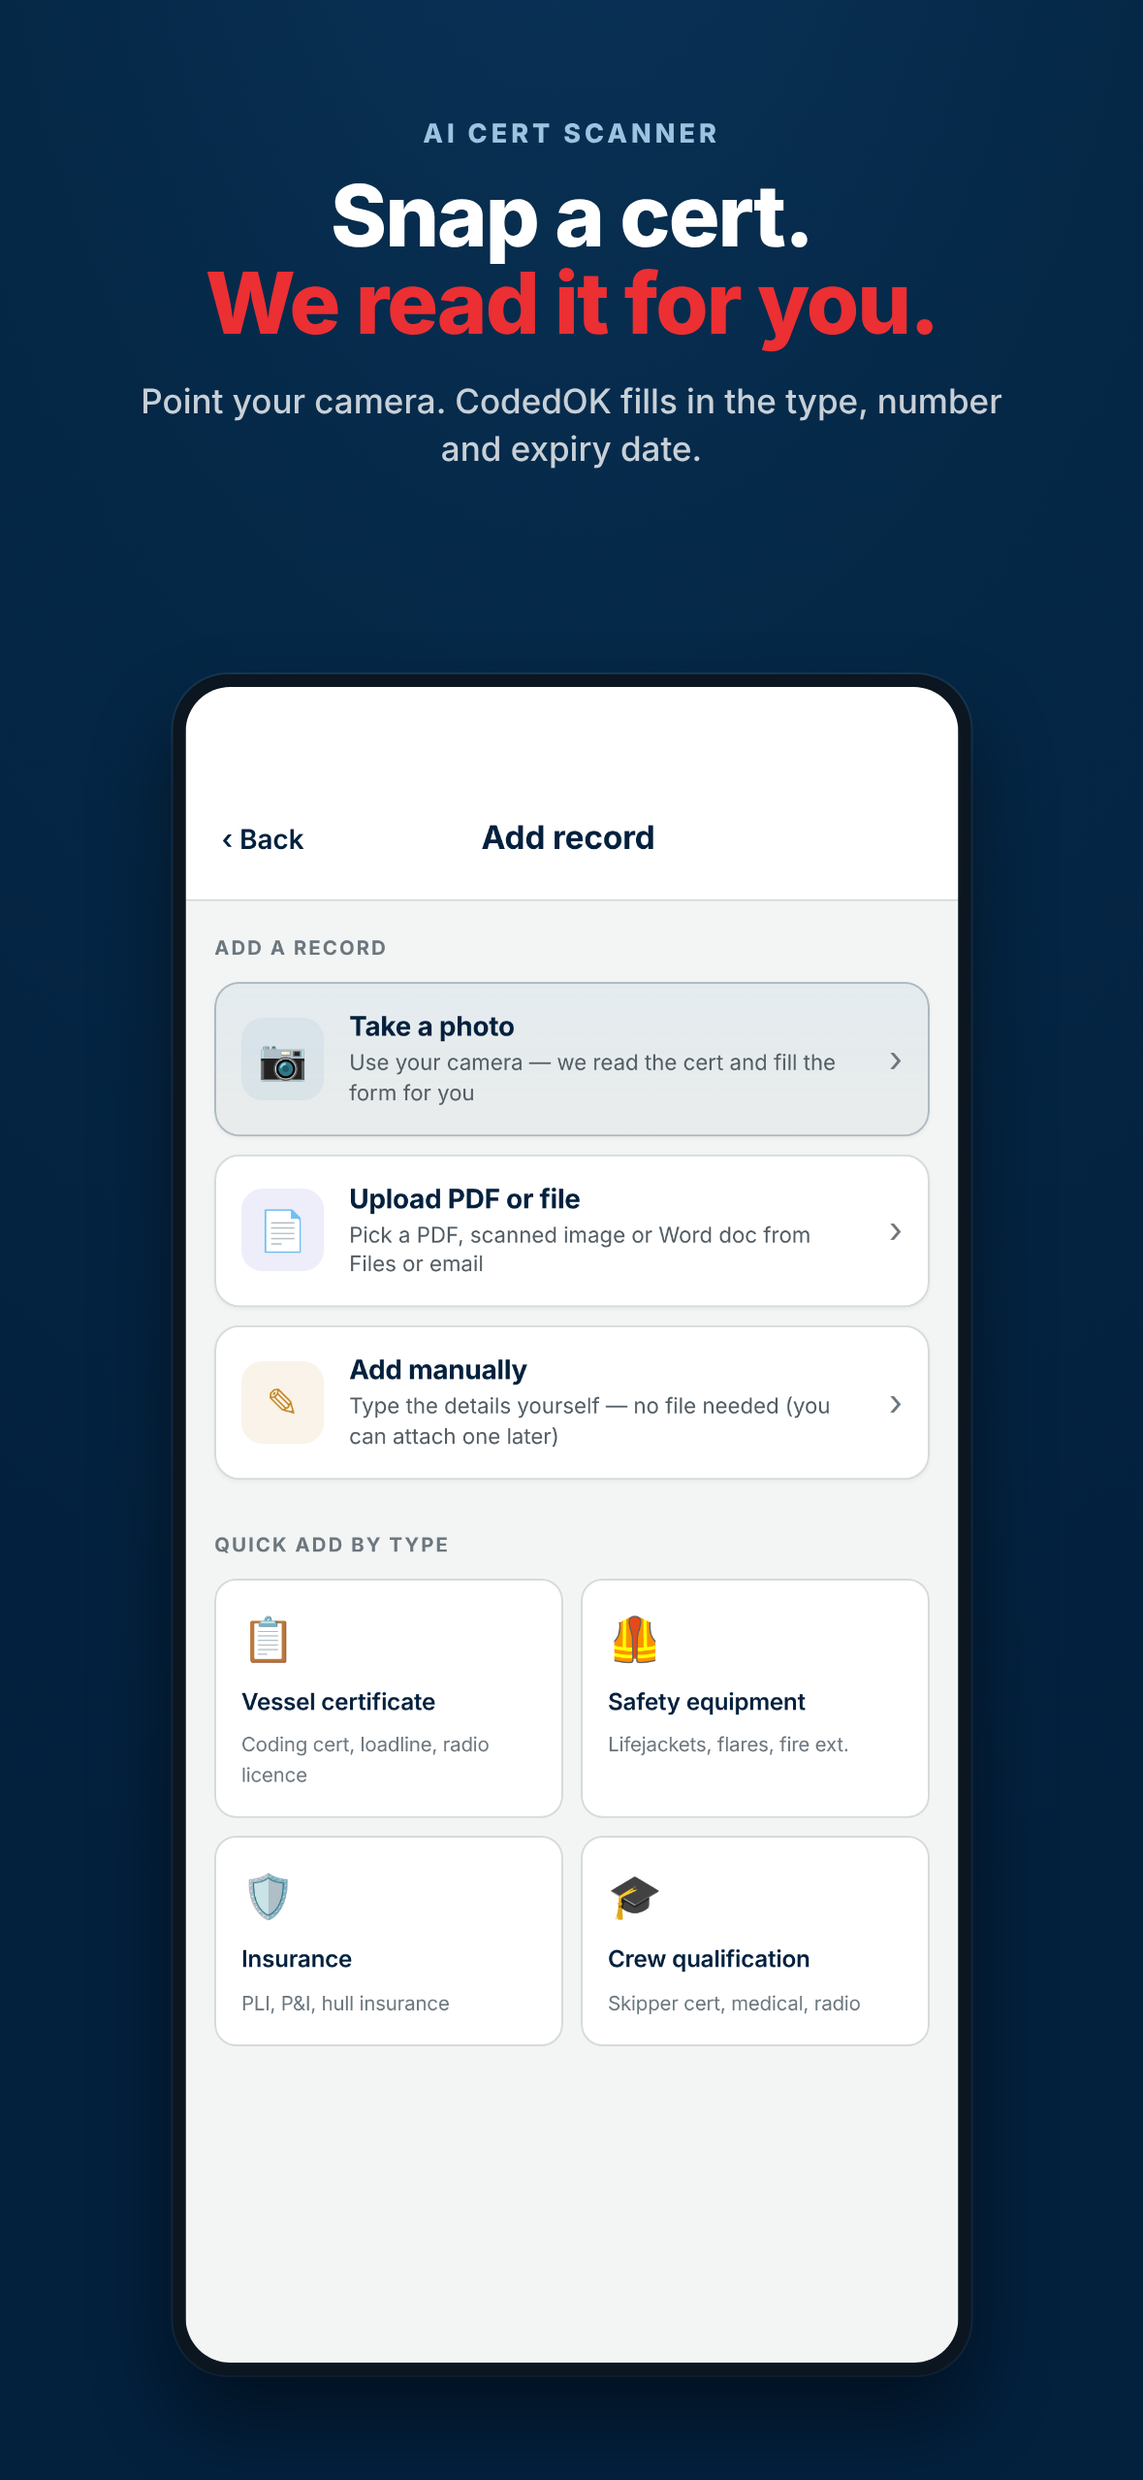
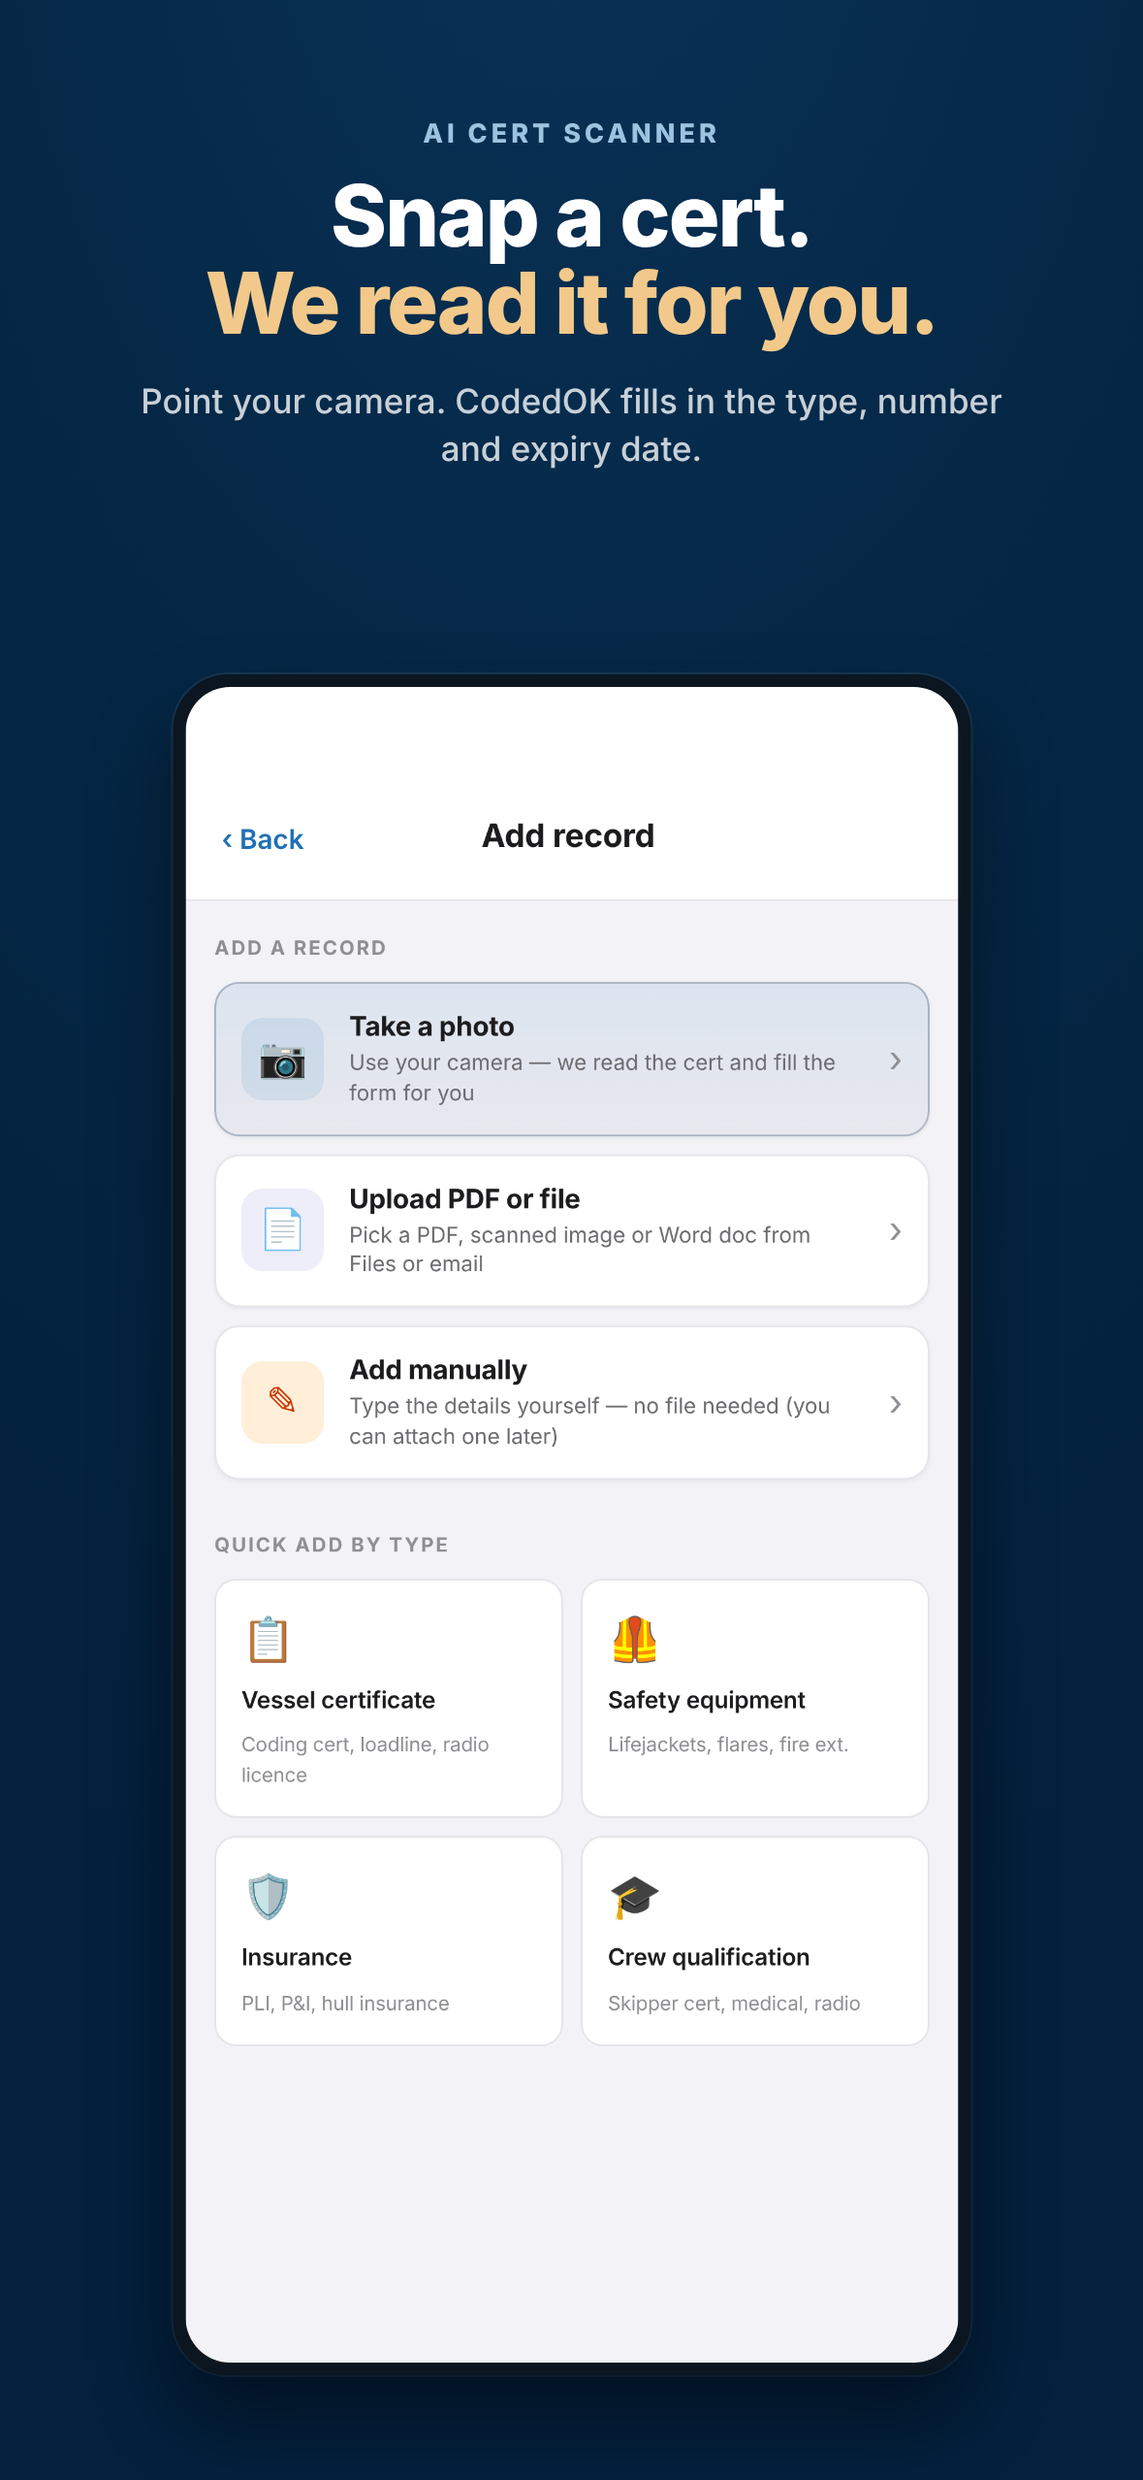
Apple-style redesign; drop red as a brand colour
Palette (blue = trust, one warm accent, Apple HIG semantics):
- Navy #03203D brand; Harbour Blue #1F6FB5 single tint for everything
  tappable; Stone Blue #639CC5 support; Brass Sand #F2C98A as the one
  warm accent on marketing only.
- Red is no longer a brand colour anywhere. In-app it is Apple system
  red, used only for "overdue"; status uses system green/orange/red.

Apple design layer (end of style.css): system font (SF), grouped
#F2F2F7 background, flat borderless white cards, 34pt large titles,
12px tinted/filled buttons, tint-coloured active tab. Home status card
is now a calm white summary instead of a dark glowing slab.

App Store safety: Account's hardcoded Pro/Team/£49 add-on offers are
tagged .paid-only and hidden in the native build (verified: web shows
them, native shows a single "manage at codedok.com" note). Removed
leftover emoji from Overdue headings.

New icon (white badge, blue tick - no red), and regenerated all Meta
ads, App Store screenshots and the share card. Press-kit colours and
docs/BRAND.md updated. All-screens walk clean. SW v195.

Claude-Session: https://claude.ai/code/session_013T4bCp6etX6yKh2SAUTcQj

diff --git a/app/style.css b/app/style.css
@@ -317,7 +317,7 @@ html,body{font-family:var(--fn);background:var(--ink);color:var(--text);min-heig
   #dnav .dni.on { background: rgba(34,211,238,.16); color: #fff; }
   #dnav .dni.on::before {
     content: ''; position: absolute; left: 0; top: 10px; bottom: 10px;
-    width: 3px; border-radius: 0 3px 3px 0; background: var(--seal, #EB2F33);
+    width: 3px; border-radius: 0 3px 3px 0; background: var(--seal, #1F6FB5);
   }
   #dnav .dni-ic { font-size: 21px; width: 24px; text-align: center; flex-shrink: 0; }
   #dnav .dni-lb { font-size: 15px; font-weight: 600; }
@@ -3693,10 +3693,10 @@ body.shell-fullbleed #s-land > .sb { display: none !important; }
   display: block;
 }
 #s-land .ios-italic.ios-italic-light {
-  /* Solid scarlet: the brand's one accent. (A clipped gradient here let
+  /* Solid brass-sand: the brand's one warm accent. (A clipped gradient here let
      the parent's dark text-shadow bleed through and dull it to maroon.) */
-  color: #EB2F33;
-  -webkit-text-fill-color: #EB2F33;
+  color: #F2C98A;
+  -webkit-text-fill-color: #F2C98A;
   text-shadow: none;
 }
 #s-land .ios-sub.ios-sub-light { color: rgba(255,255,255,.88); max-width: 560px; margin-left: 0; margin-right: 0; text-shadow: 0 2px 12px rgba(0,0,0,.55); }
@@ -4446,7 +4446,7 @@ body.shell-fullbleed #s-land > .sb { display: none !important; }
   color: #fff;
 }
 #s-land .ios-final .ios-italic {
-  background: linear-gradient(120deg, #EB2F33 0%, #EB2F33 100%);
+  background: linear-gradient(120deg, #F2C98A 0%, #F2C98A 100%);
   -webkit-background-clip: text;
           background-clip: text;
   -webkit-text-fill-color: transparent;
@@ -5566,3 +5566,63 @@ html.is-native #qr-fab { display: none !important; }
 .bni-ic svg { width: 24px; height: 24px; display: block; }
 .bni-ic { filter: none; }
 .ios-head-btn svg { width: 21px; height: 21px; display: block; }
+
+/* ══════════════════════════════════════════════════════════════════
+   APPLE DESIGN LAYER (HIG-aligned) — the in-app look.
+   • One tint (Harbour Blue) for everything tappable.
+   • Status uses Apple's system green / orange / red; red = overdue only.
+   • System font (SF on Apple devices), grouped grey background, white
+     cards with no borders or heavy shadows, 12px controls.
+   The marketing landing (#s-land) keeps its own scoped theme.
+   ══════════════════════════════════════════════════════════════════ */
+:root {
+  --tint: #1F6FB5;
+  --sea:  #1F6FB5; --seal: #1F6FB5; --seap: rgba(31,111,181,.10);
+  --ink:  #03203D; --ink2: #0A2D4F; --ink3: #123A60;
+  --green:#248A3D; --grnp: rgba(52,199,89,.14);
+  --amber:#C93400; --ampp: rgba(255,149,0,.15);
+  --red:  #D70015; --redp: rgba(255,59,48,.12);
+  --page: #F2F2F7; --card: #FFFFFF; --card-2: #FFFFFF;
+  --bdr:  #E5E5EA; --bdr-strong: #C6C6C8;
+  --text: #1C1C1E; --text-2: #3A3A3C; --mid: #6C6C70; --lt: #8E8E93; --lt-2: #AEAEB2;
+  --fn:         -apple-system, BlinkMacSystemFont, 'SF Pro Text', 'Helvetica Neue', 'Inter', sans-serif;
+  --fn-display: -apple-system, BlinkMacSystemFont, 'SF Pro Display', 'Helvetica Neue', 'Inter', sans-serif;
+}
+
+/* System font throughout the app (inline monospace etc. still wins). */
+.shell:not(#s-land), .shell:not(#s-land) * { font-family: var(--fn); }
+.shell:not(#s-land) .ios-largetitle { font-family: var(--fn-display); font-weight: 700; font-size: 34px; letter-spacing: .2px; }
+
+/* Grouped background, flat white cards. */
+.shell:not(#s-land) .card { box-shadow: none; border-color: transparent; border-radius: 14px; }
+.shell:not(#s-land) .ios-group { box-shadow: none; }
+
+/* Home status: a calm white summary card, not a dark glowing slab. */
+.hero.hero-home {
+  background: var(--card) !important; background-image: none !important;
+  box-shadow: none !important; border-radius: 16px; padding: 18px;
+}
+.hero-home::before, .hero-home .hero-stars { display: none !important; }
+.ss-headline { font-family: var(--fn-display); color: var(--text); font-size: 20px; font-weight: 700; letter-spacing: -.2px; }
+.ss-sub { color: var(--mid); }
+.ss-badge { width: 54px; height: 54px; font-size: 26px; box-shadow: none; }
+.ss-badge.ss-good { background: rgba(52,199,89,.14);  color: #248A3D; }
+.ss-badge.ss-warn { background: rgba(255,149,0,.15);  color: #C93400; }
+.ss-badge.ss-bad  { background: rgba(255,59,48,.12);  color: #D70015; }
+.ss-actions { margin-top: 16px; gap: 10px; }
+.ss-btn { min-height: 50px; border-radius: 12px; font-size: 16px; font-weight: 600; }
+.ss-btn-primary { background: var(--tint); color: #fff; box-shadow: none; }
+.ss-btn-ghost   { background: rgba(31,111,181,.10); color: var(--tint); box-shadow: none; }
+
+/* Buttons: Apple filled / tinted styles, 12px corners. */
+.shell:not(#s-land) .btn { border-radius: 12px; font-weight: 600; }
+.shell:not(#s-land) .btn-sea { background: var(--tint); color: #fff; box-shadow: none; }
+
+/* Tab bar: tint for the active tab, system grey otherwise. */
+.bni { color: #8E8E93; }
+.bni.on { color: var(--tint); }
+
+/* Native (App Store) build: no paid offers in-app; web keeps them. */
+.native-only { display: none; }
+html.is-native .native-only { display: block; }
+html.is-native .paid-only { display: none !important; }

diff --git a/app/index.html b/app/index.html
@@ -1596,7 +1596,7 @@
 
     <div id="cr-urgent" class="tc on">
       <!-- Overdue section -->
-      <div class="slbl" style="color:var(--red)">🚨 Overdue — act now</div>
+      <div class="slbl" style="color:var(--red)">Overdue — act now</div>
       <div class="card mx">
         <div class="row"><div class="row-ic rd">🧨</div><div class="row-body"><div class="row-name">Cat C Pyrotechnics</div><div class="row-sub">Tsunami IV · Expired 10 Apr</div></div><span class="chip chip-rd">-5 days</span><span class="chev">›</span></div>
         <div class="row"><div class="row-ic rd">🛟</div><div class="row-body"><div class="row-name">Life raft service</div><div class="row-sub">Tsunami IV · Service overdue</div></div><span class="chip chip-rd">Overdue</span><span class="chev">›</span></div>
@@ -2246,8 +2246,14 @@
       </div>
     </div>
 
+    <!-- Native build sells nothing in-app (App Store 3.1.1): paid tiers
+         below carry .paid-only and are hidden when html.is-native. -->
+    <div class="card mx native-only" style="margin-bottom:10px;padding:16px 18px;font-size:14px;color:var(--mid);line-height:1.5">
+      Need more vessels or a team? Manage your plan any time at <strong style="color:var(--text)">codedok.com</strong>.
+    </div>
+
     <!-- Pro — Featured -->
-    <div class="card mx" style="margin-bottom:10px;border-color:var(--sea);border-width:2px">
+    <div class="card mx paid-only" style="margin-bottom:10px;border-color:var(--sea);border-width:2px">
       <div style="background:var(--sea);padding:8px 18px;display:flex;align-items:center;justify-content:space-between">
         <span style="font-size:12px;font-weight:700;color:white;text-transform:uppercase;letter-spacing:.06em">Most popular</span>
         <span style="font-size:11px;color:rgba(255,255,255,.7)">For charter operations</span>
@@ -2269,7 +2275,7 @@
     </div>
 
     <!-- Team -->
-    <div class="card mx" style="margin-bottom:10px">
+    <div class="card mx paid-only" style="margin-bottom:10px">
       <div style="padding:18px">
         <div style="display:flex;align-items:flex-start;justify-content:space-between;margin-bottom:12px">
           <div><div style="font-size:16px;font-weight:700;color:var(--text)">Team</div><div style="font-size:13px;color:var(--lt)">Charter fleets, multiple skippers</div></div>
@@ -2287,7 +2293,7 @@
     </div>
 
     <!-- AI Add-on -->
-    <div style="margin:0 16px 16px">
+    <div class="paid-only" style="margin:0 16px 16px">
       <div style="background:var(--ink2);border-radius:14px;padding:18px">
         <div style="font-size:12px;font-weight:700;color:var(--seal);text-transform:uppercase;letter-spacing:.07em;margin-bottom:6px">🤖 AI gap analysis</div>
         <div style="font-size:16px;font-weight:700;color:white;margin-bottom:6px">Full compliance health check</div>

diff --git a/app/founding.html b/app/founding.html
@@ -22,7 +22,7 @@
 <link rel="preload" href="/fonts/PlusJakartaSans-latin.woff2" as="font" type="font/woff2" crossorigin>
 <style>
   @font-face{font-family:'Jakarta';src:url('/fonts/PlusJakartaSans-latin.woff2') format('woff2');font-weight:200 800;font-display:swap}
-  :root{--sea:#03203D;--sea2:#0A3358;--deep:#03203D;--mint:#9CC3E0;--sand:#EB2F33;--cyan:#639CC5;
+  :root{--sea:#03203D;--sea2:#0A3358;--deep:#03203D;--mint:#9CC3E0;--sand:#F2C98A;--cyan:#639CC5;
         --text:#15232b;--mid:#5a6b73;--lt:#8a97a0;--bdr:#e5eaea;--page:#f4f6f6;--card:#fff;--red:#c0392b}
   *{margin:0;padding:0;box-sizing:border-box}
   html{scroll-behavior:smooth;-webkit-text-size-adjust:100%}
@@ -49,7 +49,7 @@
 
   form.join{margin-top:24px;display:flex;gap:8px;max-width:520px;background:#fff;padding:6px;border-radius:16px;box-shadow:0 20px 50px rgba(0,0,0,.25)}
   form.join input[type=email]{flex:1;min-width:0;border:0;outline:0;font:inherit;font-size:16px;padding:12px 12px;color:var(--text);background:transparent}
-  form.join button{border:0;cursor:pointer;font:inherit;font-weight:800;font-size:15px;color:#fff;background:#EB2F33;padding:0 20px;border-radius:12px;white-space:nowrap}
+  form.join button{border:0;cursor:pointer;font:inherit;font-weight:800;font-size:15px;color:#03203D;background:#F2C98A;padding:0 20px;border-radius:12px;white-space:nowrap}
   form.join button:disabled{opacity:.6;cursor:wait}
   .fine{margin-top:12px;font-size:12.5px;color:rgba(255,255,255,.65);max-width:520px}
   .fine label{display:flex;gap:8px;align-items:flex-start;cursor:pointer}
@@ -126,7 +126,7 @@
 
   /* Sticky mobile CTA (appears once the hero form scrolls away) */
   .sticky{position:fixed;left:12px;right:12px;bottom:max(12px,env(safe-area-inset-bottom));z-index:40;display:none}
-  .sticky a{display:block;text-align:center;background:#EB2F33;color:#fff;font-weight:800;padding:15px;border-radius:14px;text-decoration:none;box-shadow:0 12px 30px rgba(7,43,54,.35)}
+  .sticky a{display:block;text-align:center;background:#F2C98A;color:#03203D;font-weight:800;padding:15px;border-radius:14px;text-decoration:none;box-shadow:0 12px 30px rgba(7,43,54,.35)}
 
   /* Cookie consent */
   .consent{position:fixed;left:12px;right:12px;bottom:max(12px,env(safe-area-inset-bottom));z-index:60;max-width:560px;margin:0 auto;background:#fff;border:1px solid var(--bdr);border-radius:16px;padding:16px;box-shadow:0 18px 48px rgba(7,43,54,.25);font-size:13.5px;color:var(--mid)}

diff --git a/app/press/index.html b/app/press/index.html
@@ -120,15 +120,15 @@
   <section class="cdk-press-section">
     <h2>Brand colours</h2>
     <div class="cdk-card">
-      <pre>Primary cyan       #EB2F33
-Light cyan accent  #67E8F9
-Naval blue         #3B82F6
-Page (abyss)       #0A0F1A
-Card (surface)     #131826
-Border (steel)     rgba(255,255,255,.10)
-OK / valid         #10B981
-Warn / due-soon    #F59E0B
-Critical / overdue #EF4444</pre>
+      <pre>Navy (brand)        #03203D
+Harbour Blue (tint)  #1F6FB5
+Stone Blue (support) #639CC5
+Brass sand (accent)  #F2C98A
+Page                 #F2F2F7
+Card                 #FFFFFF
+OK / valid           #248A3D
+Warn / due soon      #C93400
+Overdue (only)       #D70015</pre>
     </div>
   </section>
 

diff --git a/app/app.js b/app/app.js
@@ -2247,7 +2247,7 @@
         html += emptyState('✅', 'All caught up', 'No overdue or imminent expiries across the fleet.');
       }
       if (overdueCount > 0) {
-        html += `<div class="h-section" style="color:var(--red)">🚨 Overdue · ${overdueCount}</div>`;
+        html += `<div class="h-section" style="color:var(--red)">Overdue · ${overdueCount}</div>`;
         html += `<div style="padding:0 16px">`;
         overdueCerts.forEach((c) => { html += ticketHtml(c, 'cert'); });
         overdueEquip.forEach((e) => { html += ticketHtml(e, 'equipment'); });

diff --git a/app/sw.js b/app/sw.js
@@ -4,7 +4,7 @@
 //     get the latest when online, fall back to cache when offline)
 //   - Fonts / icons / images: cache-first (rarely change, big files)
 // Bump CACHE_VERSION whenever you ship — old caches are deleted on activate.
-const CACHE_VERSION = 'codedok-v194';
+const CACHE_VERSION = 'codedok-v195';
 const SHELL = [
   './',
   './index.html',

diff --git a/docs/BRAND.md b/docs/BRAND.md
@@ -1,28 +1,43 @@
-# CodedOK brand colours
+# CodedOK brand & design system
 
-Three colours. One accent. Use it sparingly.
+Blue for trust, one warm accent, Apple's rules inside the app.
+
+## Colours
 
 | Name | Hex | Use for |
 |---|---|---|
-| **Egyptian Blue** | `#03203D` | The brand. Backgrounds, headers, primary buttons in the app, the logo. |
-| **Stone Blue** | `#639CC5` | Supporting colour. Highlights, active states, secondary buttons, soft fills. |
-| **Scarlet** | `#EB2F33` | The one accent. Headlines and call-to-action buttons on the website, ads and App Store shots. |
+| **Navy** | `#03203D` | The brand: app icon, website and ad backgrounds, the vessel header, boat cards. |
+| **Harbour Blue** (tint) | `#1F6FB5` | Everything you can tap in the app: buttons, links, the active tab. Nothing else. |
+| **Stone Blue** | `#639CC5` | Soft support: icon waves, light fills, secondary highlights. |
+| **Brass Sand** | `#F2C98A` | The one warm accent, **marketing only**: the highlighted headline line and the main button on navy. |
 
-Supporting shades (already in `app/style.css`): darker stone `#3A78A6` / `#4F88B3`
-for text and hover states on white; light stone `#9CC3E0` for text on navy.
+### Status (Apple system colours, in-app only)
 
-## The one rule
+| Meaning | Text | Fill |
+|---|---|---|
+| Valid | `#248A3D` | `rgba(52,199,89,.14)` |
+| Due soon | `#C93400` | `rgba(255,149,0,.15)` |
+| Overdue | `#D70015` | `rgba(255,59,48,.12)` |
 
-**Inside the app, scarlet means "overdue" — nothing else.** No scarlet
-buttons or decoration in the app, or users will start reading every button
-as a warning. (The in-app overdue shade is `#D3262A`, a touch deeper than
-`#EB2F33` so small text stays readable.)
+## The rules
 
-On marketing (website, ads, social, App Store screenshots) scarlet is the
-headline highlight and the main button — one scarlet thing per screen.
+1. **Red is never the brand.** It appears only to mean "overdue" — the same
+   way Apple's Reminders app uses it. A compliance product's promise is
+   "you're safe", so the brand stays calm blue.
+2. **One tint for interaction** (Apple HIG): if it's Harbour Blue, it's tappable.
+3. **Sand stays on marketing.** In the app it would be confused with "due soon".
+4. **Inside the app:** system font (SF on Apple devices), grey grouped
+   background `#F2F2F7`, white cards with no borders or heavy shadows,
+   12px corners on controls. Large titles at 34pt bold.
+5. **The iPhone build sells nothing in-app.** Paid plans carry the
+   `.paid-only` class and are hidden when running natively.
 
-## Don't
+## Why blue
 
-- Add new colours. Green and amber stay only for "valid" and "due soon" status.
-- Put scarlet text on stone blue (poor contrast).
-- Use stone blue for body text on white — use `#3A78A6` instead.
+Navy and cobalt are the established colours of trust in banking,
+insurance and fintech. It's a strong industry convention rather than a
+proven statistic — so the plan is to A/B-test ad creative (via the UTM
+`utm_content` tag on each Meta ad) rather than rely on colour folklore.
+
+The in-app styles live in the "APPLE DESIGN LAYER" block at the end of
+`app/style.css`.
